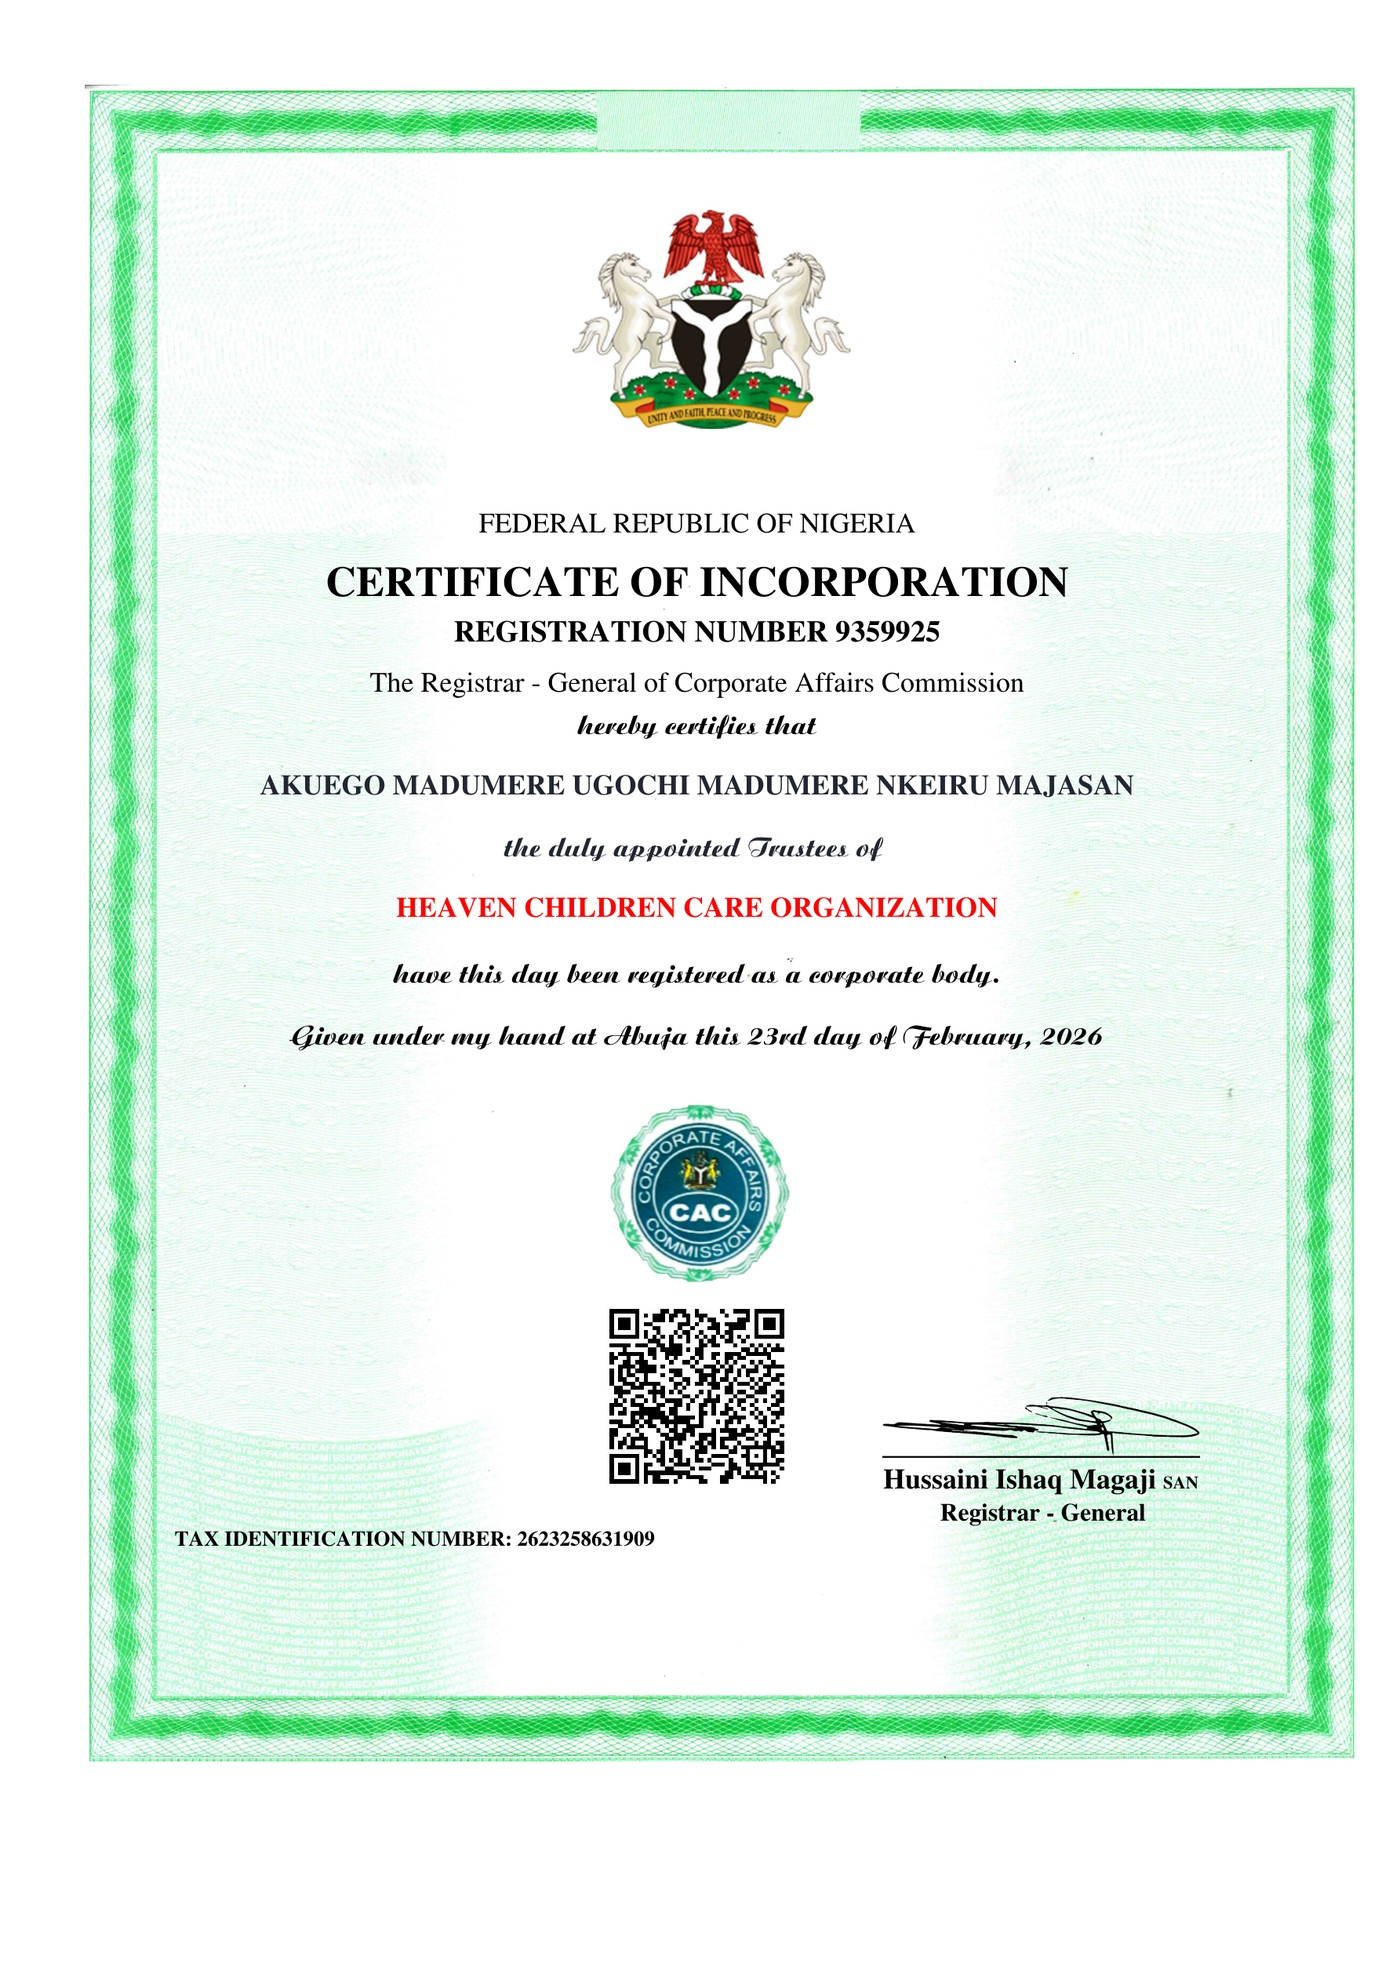
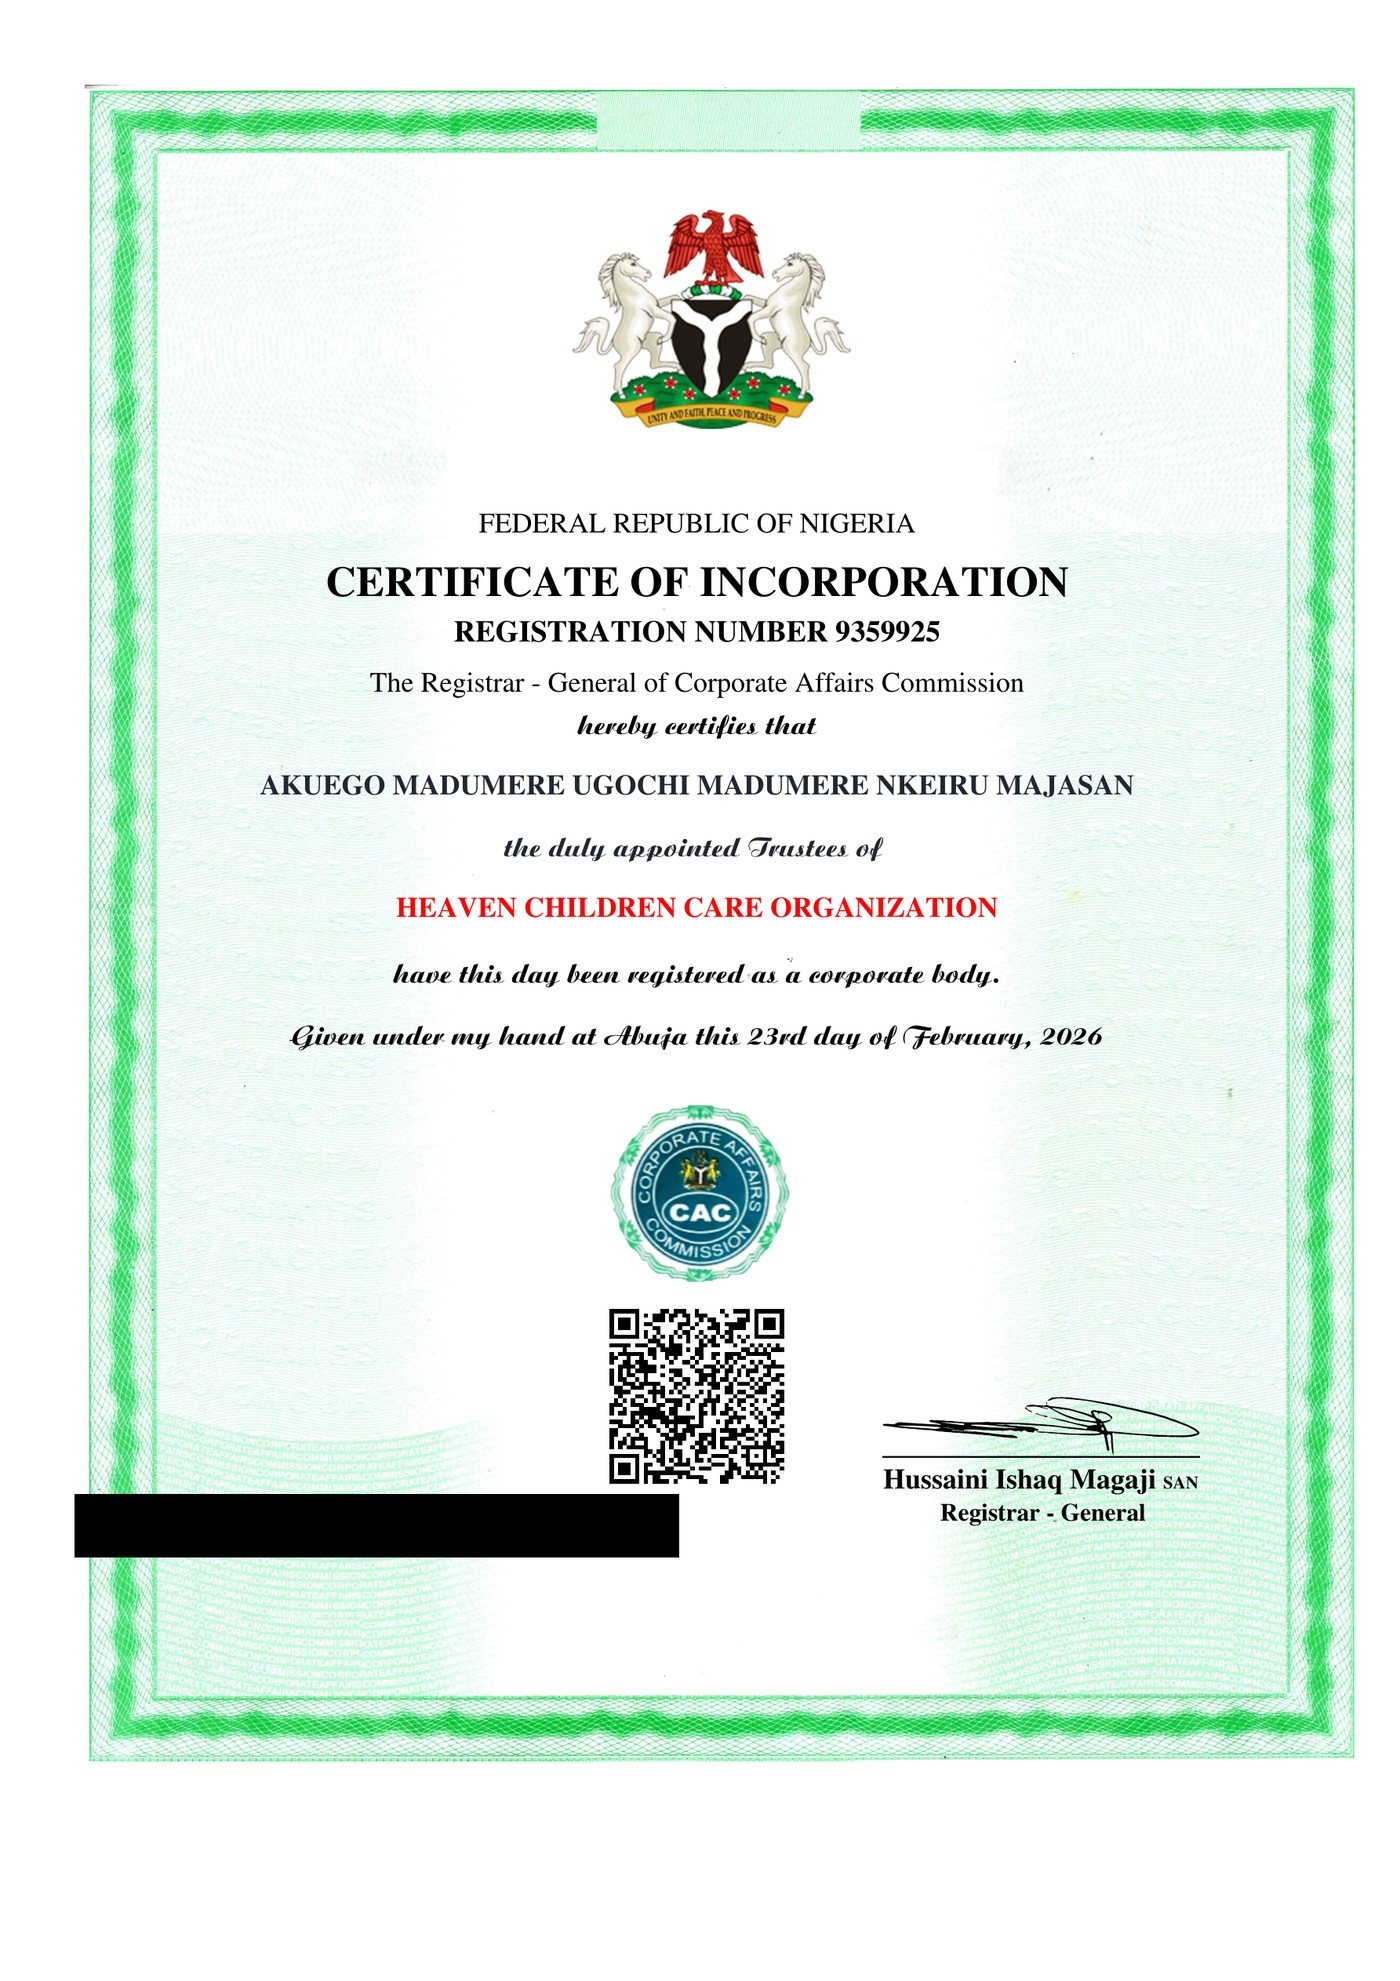
Redact TIN on CAC certificate image; update credibility notice wording

Changed region(s): [[0.0307, 0.739, 0.4914, 0.8006]]

diff --git a/about.html b/about.html
@@ -123,7 +123,7 @@
   <div class="container">
     <div class="grid grid-2" style="align-items:center; max-width:900px; margin:0 auto;">
       <div class="notice">
-        <strong>Organizational credibility:</strong> Heaven Children Care Organization is a registered nonprofit under the Corporate Affairs Commission (CAC), Federal Republic of Nigeria. Registration number <strong>9359925</strong>, registered 23 February 2026.
+        <strong>Organizational Credibility:</strong> Heaven Children Care Organization is formally registered with the Corporate Affairs Commission (CAC), Federal Republic of Nigeria. Registration No. <strong>9359925</strong>, registered 23 February 2026.
       </div>
       <div>
         <img src="assets/img/cac-certificate.jpg" alt="HCCO's Certificate of Incorporation from Nigeria's Corporate Affairs Commission" style="width:100%; border-radius:var(--radius); box-shadow:var(--shadow); border:1px solid var(--color-border);">
